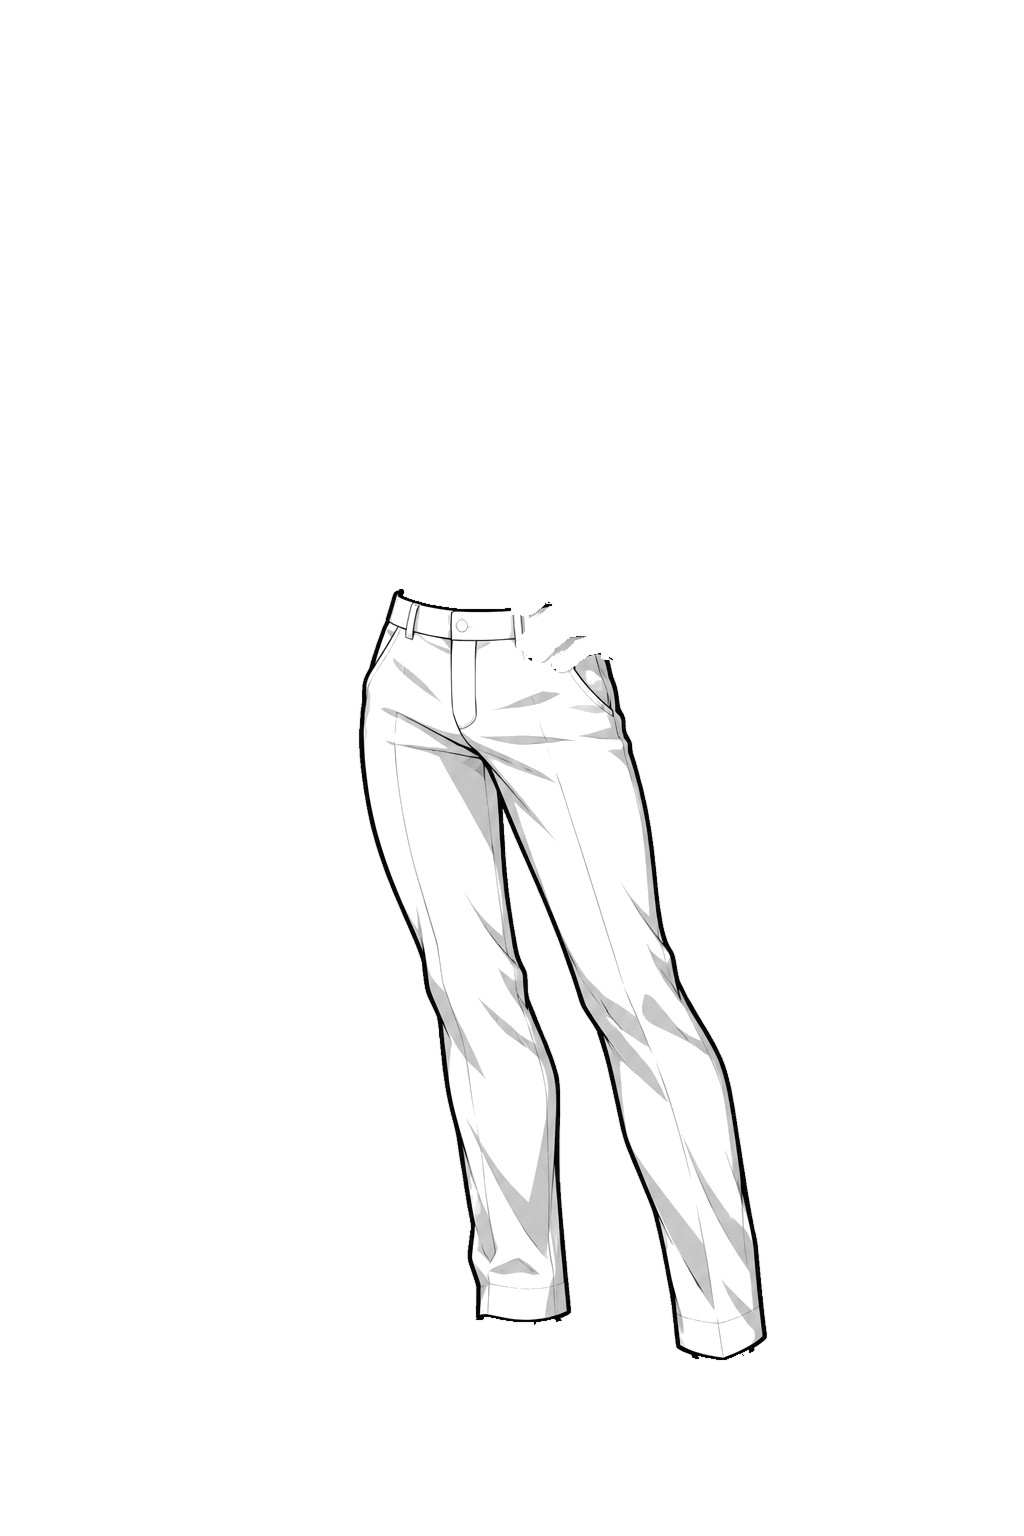
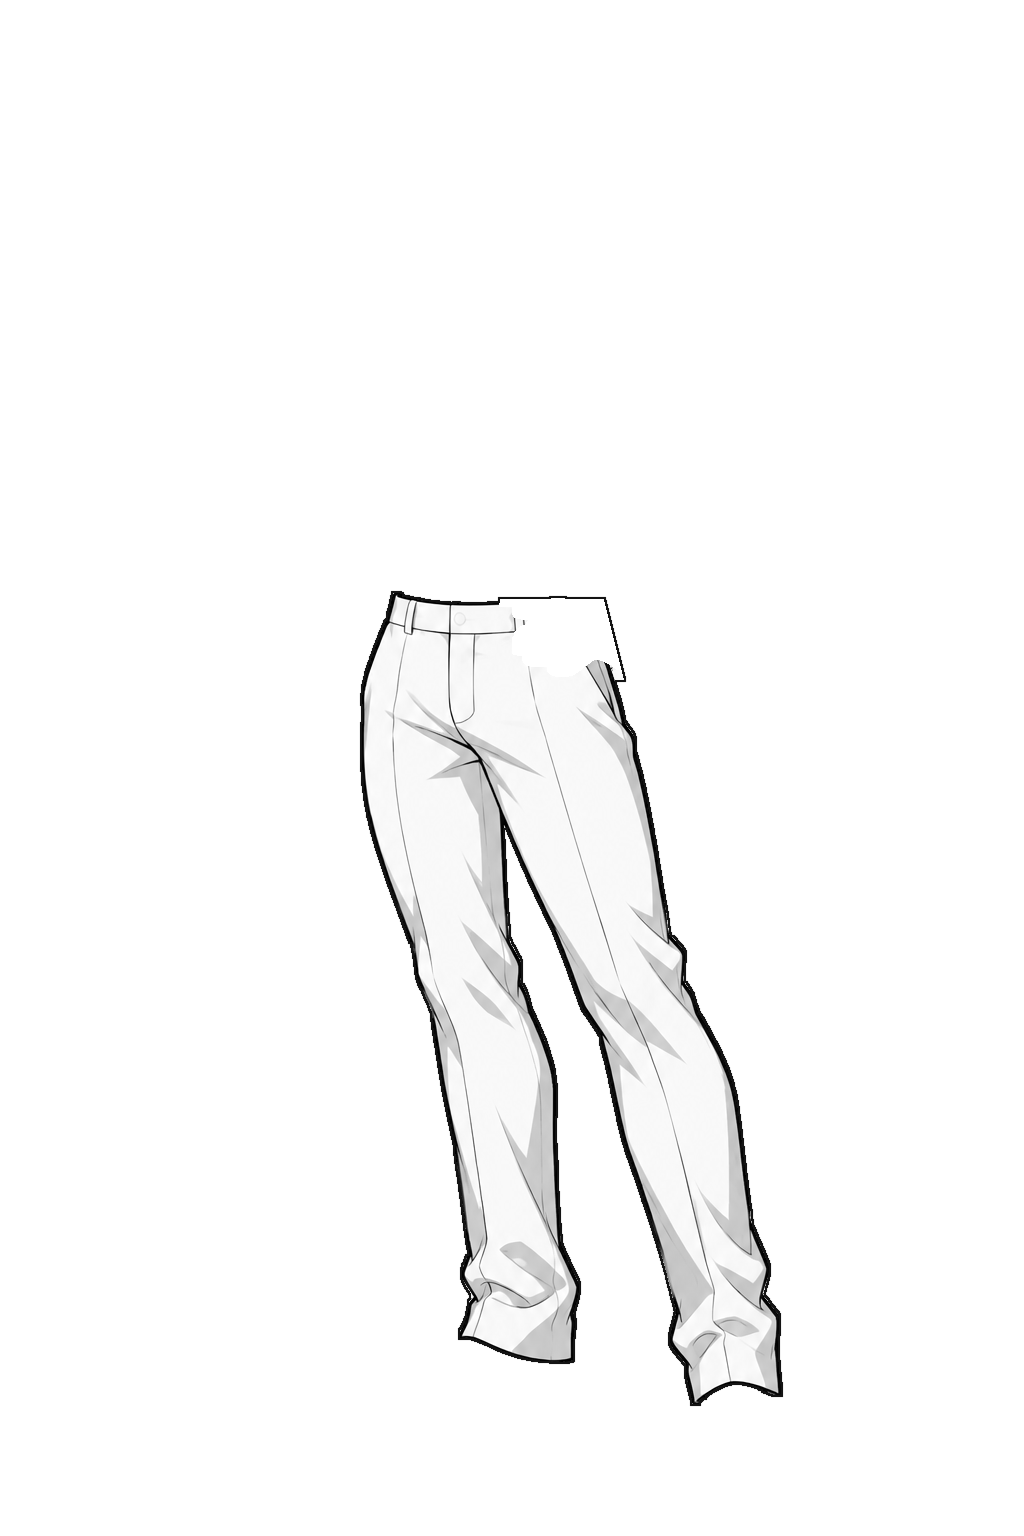
Rebuild clothing as cumulative stacks with complete fabric and front hand layers

Changed region(s): [[0.3438, 0.375, 0.7812, 0.9375], [0.5625, 0.5625, 0.5938, 0.5938]]

diff --git a/scripts/clothing-game-cut-layers.py b/scripts/clothing-game-cut-layers.py
@@ -1,4 +1,4 @@
-"""Cut approved clothing masks and build a four-outfit contact sheet.
+"""Cut cumulative clothing-stack masks and build an eight-outfit contact sheet.
 
 Run from any directory with Python, Pillow and numpy installed.
 """
@@ -11,11 +11,12 @@ from PIL import Image, ImageDraw, ImageFilter
 
 ROOT = Path(__file__).resolve().parents[1]
 ART = ROOT / "public/images/clothing-game"
-SOURCES = ART / "test/clothes"
+STACK = ART / "test2/stack"
 MASKS = ART / "test2/masks"
 LAYERS = ART / "test2/layers"
 SIZE = (1024, 1536)
-ITEMS = ("pants", "shirt", "tie", "jacket", "shoes", "glasses")
+ITEMS = ("shoes", "pants", "shirt", "tie", "jacket", "glasses")
+STAGES = dict(pants=1, shoes=2, shirt=3, tie=4, jacket=5, glasses=6)
 EXPRESSIONS = ("base", "base_blink", "base_happy", "base_oops")
 MAGENTA = np.array([255, 0, 255], dtype=np.int16)
 
@@ -25,6 +26,80 @@ def read_rgb(path):
     if image.size != SIZE:
         raise ValueError(f"Unexpected size: {path}: {image.size}")
     return np.array(image)
+
+
+def dilate(mask, pixels=1):
+    return np.array(Image.fromarray(mask.astype(np.uint8) * 255).filter(
+        ImageFilter.MaxFilter(2 * pixels + 1))) > 0
+
+
+def erode(mask, pixels=1):
+    return np.array(Image.fromarray(mask.astype(np.uint8) * 255).filter(
+        ImageFilter.MinFilter(2 * pixels + 1))) > 0
+
+
+def exterior_background(source):
+    white = source.min(axis=2) >= 248
+    image = Image.fromarray(white.astype(np.uint8) * 255).copy()
+    for seed in ((0, 0), (1023, 0), (0, 1535), (1023, 1535), (650, 530)):
+        if image.getpixel(seed) == 255:
+            ImageDraw.floodfill(image, seed, 128)
+    return np.array(image) == 128
+
+
+def read_mask(name, source):
+    marked = read_rgb(MASKS / f"{name}_mask.png")
+    mask = np.abs(marked.astype(np.int16) - MAGENTA).max(axis=2) <= 40
+    if not mask.any():
+        raise ValueError(f"Empty mask: {name}")
+    if mask[0].any() or mask[-1].any() or mask[:, 0].any() or mask[:, -1].any():
+        raise ValueError(f"Mask includes the canvas border: {name}")
+    if not np.array_equal(marked[~mask], source[~mask]):
+        raise ValueError(f"Pixels outside the mask changed: {name}")
+    if not (marked[mask] == MAGENTA).all():
+        raise ValueError(f"Mask fill must be flat #FF00FF: {name}")
+    print(f"OK mask {name}: flat #FF00FF; outside pixels identical")
+    return mask
+
+
+def complete_clothing(name, source, mask, palm):
+    if name == "glasses":
+        return source
+    colors = source.copy()
+    values = source.astype(np.int16)
+    warm = (values[:, :, 0] > values[:, :, 1] + 18) & (
+        values[:, :, 1] > values[:, :, 2] + 10)
+    hand_region = np.zeros(mask.shape, dtype=bool)
+    hand_region[568:685, 503:675] = True
+    hidden = mask & dilate((warm & hand_region) | palm, 4)
+    if name not in ("pants", "shirt", "jacket"):
+        hidden[:] = False
+    colors[hidden] = 255
+    colors[hidden & ~erode(mask)] = 20
+    background = exterior_background(source)
+    neutral = values.max(axis=2) - values.min(axis=2) < 25
+    invalid = mask & (background | ~neutral) & ~hidden
+    known = mask & ~invalid
+    propagation = dilate(mask, 4)
+    for _ in range(40):
+        if not (mask & ~known).any():
+            break
+        missing = propagation & ~known
+        previous = known.copy()
+        for dy, dx in ((0, 1), (0, -1), (1, 0), (-1, 0),
+                       (1, 1), (1, -1), (-1, 1), (-1, -1)):
+            take = np.roll(previous, (dy, dx), axis=(0, 1)) & missing
+            shifted = np.roll(colors, (dy, dx), axis=(0, 1))
+            colors[take] = shifted[take]
+            known[take] = True
+            missing[take] = False
+    if (mask & ~known).any():
+        raise ValueError(f"Unresolved hidden fabric: {name}")
+    if name != "glasses":
+        colors[mask & ~erode(mask, 2)] = 20
+    colors[~mask] = source[~mask]
+    Image.fromarray(colors).save(STACK / f"stack_{STAGES[name]}_cloth.png", optimize=True)
+    return colors
 
 
 def smooth_alpha(mask):
@@ -99,23 +174,54 @@ def tint(layer, color):
 
 def build_preview(layers):
     outfits = (
-        dict(pants="#3A3A40", shirt="#FFFFFF", tie="#D9443B",
-             jacket="#3A3A40", shoes="#5A3A22", glasses=None),
-        dict(pants="#9B9A9F", shirt="#9EC5E8", tie="#1F2F5C",
-             jacket="#1F2F5C", shoes="#2E2D31"),
-        dict(pants="#8B5A33", shirt="#F1C232", tie="#4F9A5A", shoes="#FFFFFF"),
-        dict(pants="#3F6FC6", shirt="#F29BB5", glasses=None),
+        dict(pants="#3F6FC6"),
+        dict(shoes="#6B4A2B"),
+        dict(shirt="#F29BB5"),
+        dict(tie="#4F9A5A"),
+        dict(jacket="#2F3B52"),
+        dict(glasses=None),
+        dict(pants="#8B5A33", shirt="#F1C232", shoes="#FFFFFF"),
+        dict(pants="#3A3A40", shirt="#9EC5E8", tie="#D9443B",
+             jacket="#1F2F5C", shoes="#5A3A22", glasses=None),
     )
-    preview = Image.new("RGB", (4096, 1536), "#FAF6EE")
+    preview = Image.new("RGB", (4096, 3072), "#FAF6EE")
     for index, outfit in enumerate(outfits):
         frame = Image.new("RGBA", SIZE, "#FAF6EE")
         frame.alpha_composite(Image.fromarray(layers["base"]))
         for item in ITEMS:
             if item in outfit:
                 frame.alpha_composite(tint(layers[item], outfit[item]))
-        preview.paste(frame.convert("RGB"), (index * 1024, 0))
+        frame.alpha_composite(Image.fromarray(layers["hand_palm"]))
+        preview.paste(frame.convert("RGB"), ((index % 4) * 1024, (index // 4) * 1536))
     preview.save(ART / "test2/preview.png", optimize=True)
-    print("OK preview: 4096x1536, four outfits, multiply colors, requested layer order")
+    print("OK preview: 4096x3072, eight outfits, shoes below pants, palm on top")
+
+
+def validate_coverage(layers, base):
+    values = base.astype(np.int16)
+    skin = (values[:, :, 0] > values[:, :, 1] + 18) & (
+        values[:, :, 1] > values[:, :, 2] + 10)
+    alpha = {name: image[:, :, 3].astype(float) / 255 for name, image in layers.items()}
+    ankles = np.zeros(skin.shape, dtype=bool)
+    ankles[1310:1490, 350:812] = True
+    exposed = (1 - alpha["pants"]) * (1 - alpha["shoes"])
+    if (skin & ankles & (exposed > 0.02)).any():
+        raise ValueError("Skin exposed at the trousers/shoes join")
+    shoulders = np.zeros(skin.shape, dtype=bool)
+    shoulders[285:570, 305:710] = True
+    if (skin & shoulders & (alpha["shirt"] < 0.98)).any():
+        raise ValueError("Body exposed through the shirt silhouette")
+    for name in ("pants", "shirt", "jacket"):
+        if alpha[name][625, 550] != 1:
+            raise ValueError(f"Hand-shaped hole in {name}")
+    for x in (270, 285, 300):
+        shirt_end = np.where(alpha["shirt"][710:790, x] > 0.5)[0].max()
+        jacket_end = np.where(alpha["jacket"][710:790, x] > 0.5)[0].max()
+        if not 8 <= shirt_end - jacket_end <= 12:
+            raise ValueError(f"Uneven hanging cuff at x={x}")
+    if not alpha["hand_front"][550, 730] or alpha["hand_palm"][550, 730]:
+        raise ValueError("Forearm/palm overlay separation is invalid")
+    print("OK coverage: no skin at joins; complete hidden fabric; cuff=8–12px; separate palm overlay")
 
 
 def main():
@@ -125,20 +231,15 @@ def main():
     layers = {}
     for name in EXPRESSIONS:
         layers[name] = save_layer(name, read_rgb(ART / f"test2/{name}.png"), silhouette)
+    palm = read_mask("hand_palm", base)
+    for name in ("hand_front", "hand_palm"):
+        layers[name] = save_layer(name, base, read_mask(name, base))
     for name in ITEMS:
-        source = read_rgb(SOURCES / f"{name}.png")
-        marked = read_rgb(MASKS / f"{name}_mask.png")
-        mask = np.abs(marked.astype(np.int16) - MAGENTA).max(axis=2) <= 40
-        if not mask.any():
-            raise ValueError(f"Empty mask: {name}")
-        if mask[0].any() or mask[-1].any() or mask[:, 0].any() or mask[:, -1].any():
-            raise ValueError(f"Mask includes the canvas border: {name}")
-        if not np.array_equal(marked[~mask], source[~mask]):
-            raise ValueError(f"Pixels outside the mask changed: {name}")
-        if not (marked[mask] == MAGENTA).all():
-            raise ValueError(f"Mask fill must be flat #FF00FF: {name}")
-        print(f"OK mask {name}: flat #FF00FF; outside pixels identical")
-        layers[name] = save_layer(name, source, mask, grayscale=name != "glasses")
+        source = read_rgb(STACK / f"stack_{STAGES[name]}.png")
+        mask = read_mask(name, source)
+        complete = complete_clothing(name, source, mask, palm)
+        layers[name] = save_layer(name, complete, mask, grayscale=name != "glasses")
+    validate_coverage(layers, base)
     build_preview(layers)
 
 
